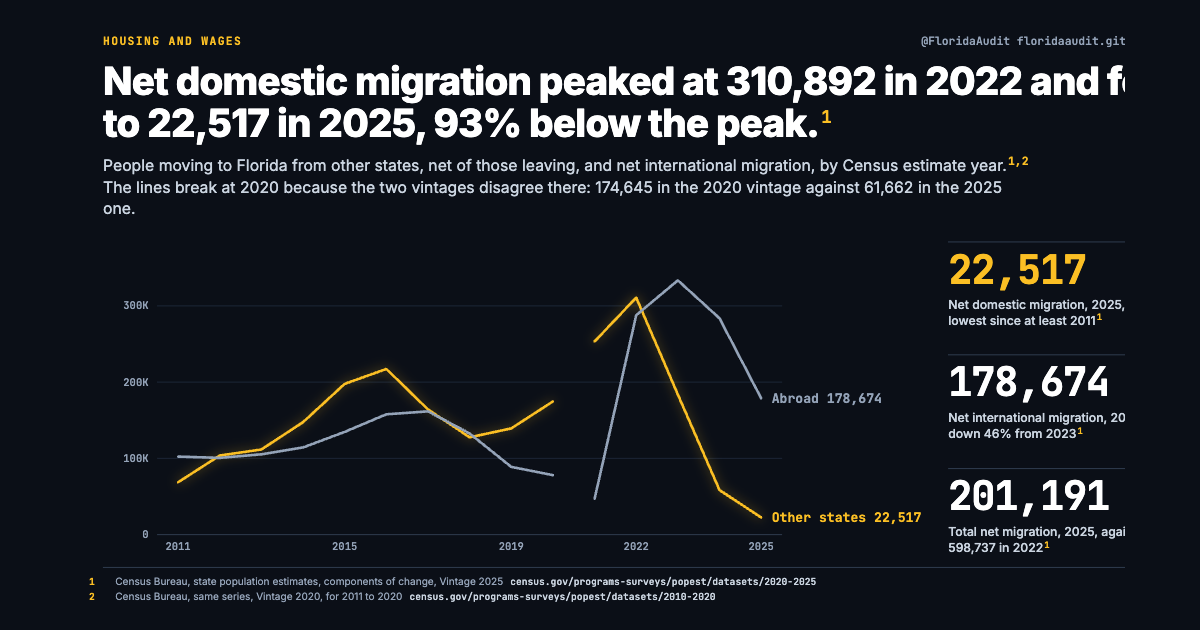
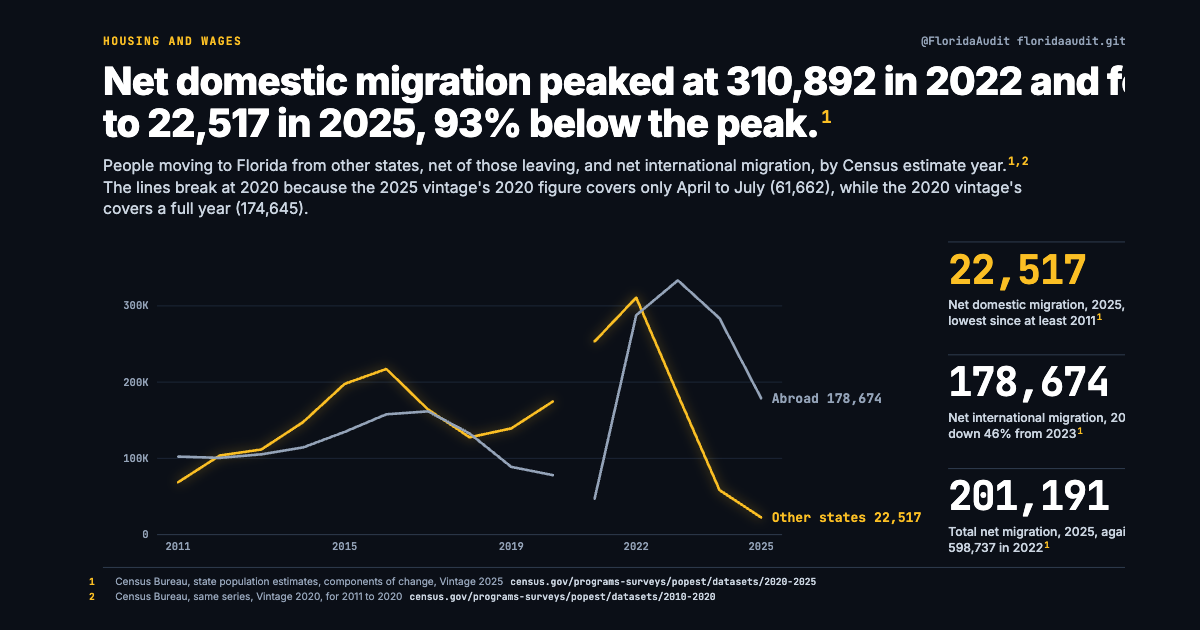
Release charts through 2026-10-01

Changed region(s): [[0.3083, 0.2714, 0.8633, 0.3317], [0.0925, 0.3016, 0.2467, 0.3619]]

diff --git a/c/housing-and-wages/index.html b/c/housing-and-wages/index.html
@@ -33,11 +33,11 @@
       <li><a href="/c/housing-and-wages/housing-costs-vs-income.html"><img src="/charts/housing-and-wages/housing-costs-vs-income.webp" width="1280" height="720" alt="Since 2010, Florida's median rent rose 33% and median home value 68% after inflation. Median household income rose 22%. Index, 2010 = 100, inflation-adjusted with CPI-U. Median gross rent, median value of owner-occupied homes and median household income, Florida. No 2020 estimate." loading="lazy"><span>Since 2010, Florida's median rent rose 33% and median home value 68% after inflation. Median household income rose 22%.</span></a></li>
       <li><a href="/c/housing-and-wages/rent-burden.html"><img src="/charts/housing-and-wages/rent-burden.webp" width="1280" height="720" alt="62.1% of Florida renters spent 30% or more of income on rent in 2024, the highest share since at least 2010. Renter households spending 30% or more of household income on gross rent, Florida and U.S., 2010 to 2024. Excludes households where the ratio is not computed." loading="lazy"><span>62.1% of Florida renters spent 30% or more of income on rent in 2024, the highest share since at least 2010.</span></a></li>
       <li><a href="/c/housing-and-wages/affordable-rental-shortage.html"><img src="/charts/housing-and-wages/affordable-rental-shortage.webp" width="1280" height="720" alt="Florida had 41 affordable and available rental units for every 100 renter households earning up to 60% of area median income in 2024. Surplus or shortage of rental units affordable and available to renter households, by household income as a share of area median income (AMI), Florida, 2024. Units per 100 households calculated from the same counts." loading="lazy"><span>Florida had 41 affordable and available rental units for every 100 renter households earning up to 60% of area median income in 2024.</span></a></li>
-      <li><a href="/c/housing-and-wages/hours-of-work-for-rent.html"><img src="/charts/housing-and-wages/hours-of-work-for-rent.webp" width="1280" height="720" alt="At Florida's median wage, a month of median rent took 80 hours of work in 2024. Nationally it took 63. Median monthly gross rent divided by the median hourly wage for all occupations. The wage survey changed methods in 2021, so earlier years are not directly comparable. No 2020 rent estimate." loading="lazy"><span>At Florida's median wage, a month of median rent took 80 hours of work in 2024. Nationally it took 63.</span></a></li>
+      <li><a href="/c/housing-and-wages/hours-of-work-for-rent.html"><img src="/charts/housing-and-wages/hours-of-work-for-rent.webp" width="1280" height="720" alt="At Florida's median wage, a month of median rent took 80 hours of work in 2024. Nationally it took 62. Median monthly gross rent divided by the median hourly wage for all occupations. The wage survey changed methods in 2021, so earlier years are not directly comparable. No 2020 rent estimate." loading="lazy"><span>At Florida's median wage, a month of median rent took 80 hours of work in 2024. Nationally it took 62.</span></a></li>
       <li><a href="/c/housing-and-wages/average-pay.html"><img src="/charts/housing-and-wages/average-pay.webp" width="1280" height="720" alt="Florida's average pay rose 18.5% after inflation from 2010 to 2025, faster than the U.S. (14.0%). It remains 7.6% below the U.S. average. Average annual pay, all jobs covered by unemployment insurance, Florida and U.S. Solid lines current dollars; dashed lines 2025 dollars." loading="lazy"><span>Florida's average pay rose 18.5% after inflation from 2010 to 2025, faster than the U.S. (14.0%). It remains 7.6% below the U.S. average.</span></a></li>
       <li><a href="/c/housing-and-wages/price-adjusted-wage-rank.html"><img src="/charts/housing-and-wages/price-adjusted-wage-rank.webp" width="1280" height="720" alt="Adjusted for Florida's price level, its median wage ranks 50th of 51 jurisdictions. Only Mississippi is lower. Florida's rank among the 50 states and D.C., 2024 (1 = highest), before and after dividing by each state's price level. Pre-tax: Florida has no state personal income tax. Ranks calculated from the published state data." loading="lazy"><span>Adjusted for Florida's price level, its median wage ranks 50th of 51 jurisdictions. Only Mississippi is lower.</span></a></li>
       <li><a href="/c/housing-and-wages/what-raised-the-cost-of-owning.html"><img src="/charts/housing-and-wages/what-raised-the-cost-of-owning.webp" width="1280" height="720" alt="The monthly cost of a Florida home with a mortgage rose $313 after inflation from 2019 to 2024. Insurance was $67 of it. Average monthly cost for owners with a mortgage, in 2024 dollars. Insurance is 10% of the bill and 22% of the rise. Census caps reported insurance at $10,000 a year and 2.9% of owners are at the cap, so that step is a floor." loading="lazy"><span>The monthly cost of a Florida home with a mortgage rose $313 after inflation from 2019 to 2024. Insurance was $67 of it.</span></a></li>
-      <li><a href="/c/housing-and-wages/net-migration.html"><img src="/charts/housing-and-wages/net-migration.webp" width="1280" height="720" alt="Net domestic migration peaked at 310,892 in 2022 and fell to 22,517 in 2025, 93% below the peak. People moving to Florida from other states, net of those leaving, and net international migration, by Census estimate year. The lines break at 2020 because the two vintages disagree there: 174,645 in the 2020 vintage against 61,662 in the 2025 one." loading="lazy"><span>Net domestic migration peaked at 310,892 in 2022 and fell to 22,517 in 2025, 93% below the peak.</span></a></li>
+      <li><a href="/c/housing-and-wages/net-migration.html"><img src="/charts/housing-and-wages/net-migration.webp" width="1280" height="720" alt="Net domestic migration peaked at 310,892 in 2022 and fell to 22,517 in 2025, 93% below the peak. People moving to Florida from other states, net of those leaving, and net international migration, by Census estimate year. The lines break at 2020 because the 2025 vintage's 2020 figure covers only April to July (61,662), while the 2020 vintage's covers a full year (174,645)." loading="lazy"><span>Net domestic migration peaked at 310,892 in 2022 and fell to 22,517 in 2025, 93% below the peak.</span></a></li>
     </ul>
     <p class="download"><a href="/data/housing-and-wages/housing-and-wages-data.zip">Download every CSV behind these charts (8 files)</a></p>
     <p class="related">Related: <a href="/c/property-taxes/">Property Taxes</a></p>

diff --git a/c/housing-and-wages/hours-of-work-for-rent.html b/c/housing-and-wages/hours-of-work-for-rent.html
@@ -3,32 +3,32 @@
 <head>
   <meta charset="utf-8">
   <meta name="viewport" content="width=device-width, initial-scale=1">
-  <title>At Florida's median wage, a month of median rent took 80 hours of work in 2024. Nationally it took 63. · Florida Audit Project</title>
+  <title>At Florida's median wage, a month of median rent took 80 hours of work in 2024. Nationally it took 62. · Florida Audit Project</title>
   <meta name="description" content="Housing and Wages: Median monthly gross rent divided by the median hourly wage for all occupations.">
   <link rel="canonical" href="https://floridaaudit.github.io/c/housing-and-wages/hours-of-work-for-rent.html">
   <meta name="robots" content="index, follow, max-image-preview:large">
   <meta property="og:type" content="article">
   <meta property="og:site_name" content="Florida Audit Project">
-  <meta property="og:title" content="At Florida's median wage, a month of median rent took 80 hours of work in 2024. Nationally it took 63.">
+  <meta property="og:title" content="At Florida's median wage, a month of median rent took 80 hours of work in 2024. Nationally it took 62.">
   <meta property="og:description" content="Housing and Wages: Median monthly gross rent divided by the median hourly wage for all occupations.">
   <meta property="og:url" content="https://floridaaudit.github.io/c/housing-and-wages/hours-of-work-for-rent.html">
   <meta property="og:image" content="https://floridaaudit.github.io/charts/housing-and-wages/hours-of-work-for-rent-card.png">
   <meta property="og:image:width" content="1200">
   <meta property="og:image:height" content="630">
-  <meta property="og:image:alt" content="At Florida's median wage, a month of median rent took 80 hours of work in 2024. Nationally it took 63. Median monthly gross rent divided by the median hourly wage for all occupations. The wage survey changed methods in 2021, so earlier years are not directly comparable. No 2020 rent estimate.">
+  <meta property="og:image:alt" content="At Florida's median wage, a month of median rent took 80 hours of work in 2024. Nationally it took 62. Median monthly gross rent divided by the median hourly wage for all occupations. The wage survey changed methods in 2021, so earlier years are not directly comparable. No 2020 rent estimate.">
   <meta name="twitter:card" content="summary_large_image">
   <meta name="twitter:site" content="@FloridaAudit">
-  <meta name="twitter:title" content="At Florida's median wage, a month of median rent took 80 hours of work in 2024. Nationally it took 63.">
+  <meta name="twitter:title" content="At Florida's median wage, a month of median rent took 80 hours of work in 2024. Nationally it took 62.">
   <meta name="twitter:description" content="Housing and Wages: Median monthly gross rent divided by the median hourly wage for all occupations.">
   <meta name="twitter:image" content="https://floridaaudit.github.io/charts/housing-and-wages/hours-of-work-for-rent-card.png">
-  <meta name="twitter:image:alt" content="At Florida's median wage, a month of median rent took 80 hours of work in 2024. Nationally it took 63. Median monthly gross rent divided by the median hourly wage for all occupations. The wage survey changed methods in 2021, so earlier years are not directly comparable. No 2020 rent estimate.">
+  <meta name="twitter:image:alt" content="At Florida's median wage, a month of median rent took 80 hours of work in 2024. Nationally it took 62. Median monthly gross rent divided by the median hourly wage for all occupations. The wage survey changed methods in 2021, so earlier years are not directly comparable. No 2020 rent estimate.">
   <link rel="icon" href="/assets/favicon.png" type="image/png">
   <link rel="stylesheet" href="/assets/site.css">
   <script type="application/ld+json">
 {
   "@context": "https://schema.org",
   "@type": "Dataset",
-  "name": "At Florida's median wage, a month of median rent took 80 hours of work in 2024. Nationally it took 63.",
+  "name": "At Florida's median wage, a month of median rent took 80 hours of work in 2024. Nationally it took 62.",
   "description": "Housing and Wages: Median monthly gross rent divided by the median hourly wage for all occupations.",
   "url": "https://floridaaudit.github.io/c/housing-and-wages/hours-of-work-for-rent.html",
   "license": "https://creativecommons.org/publicdomain/zero/1.0/",
@@ -68,10 +68,10 @@
 <main>
   <article>
     <p class="kicker">Housing and Wages</p>
-    <h1>At Florida's median wage, a month of median rent took 80 hours of work in 2024. Nationally it took 63.</h1>
+    <h1>At Florida's median wage, a month of median rent took 80 hours of work in 2024. Nationally it took 62.</h1>
     <p class="sub">Median monthly gross rent divided by the median hourly wage for all occupations. The wage survey changed methods in 2021, so earlier years are not directly comparable. No 2020 rent estimate.</p>
     <figure>
-      <img src="/charts/housing-and-wages/hours-of-work-for-rent.webp" width="1280" height="720" alt="At Florida's median wage, a month of median rent took 80 hours of work in 2024. Nationally it took 63. Median monthly gross rent divided by the median hourly wage for all occupations. The wage survey changed methods in 2021, so earlier years are not directly comparable. No 2020 rent estimate.">
+      <img src="/charts/housing-and-wages/hours-of-work-for-rent.webp" width="1280" height="720" alt="At Florida's median wage, a month of median rent took 80 hours of work in 2024. Nationally it took 62. Median monthly gross rent divided by the median hourly wage for all occupations. The wage survey changed methods in 2021, so earlier years are not directly comparable. No 2020 rent estimate.">
       <figcaption>Full size: <a href="/charts/housing-and-wages/hours-of-work-for-rent.png">PNG, 2560 by 1440</a></figcaption>
     </figure>
     <dl class="figures">

diff --git a/data/housing-and-wages/hours-to-pay-median-rent.html b/data/housing-and-wages/hours-to-pay-median-rent.html
@@ -4,13 +4,13 @@
   <meta charset="utf-8">
   <meta name="viewport" content="width=device-width, initial-scale=1">
   <title>hours-to-pay-median-rent.csv · Florida Audit Project</title>
-  <meta name="description" content="Housing and Wages: the data behind At Florida's median wage, a month of median rent took 80 hours of work in 2024. Nationally it took 63.">
+  <meta name="description" content="Housing and Wages: the data behind At Florida's median wage, a month of median rent took 80 hours of work in 2024. Nationally it took 62.">
   <link rel="canonical" href="https://floridaaudit.github.io/data/housing-and-wages/hours-to-pay-median-rent.html">
   <meta name="robots" content="index, follow, max-image-preview:large">
   <meta property="og:type" content="website">
   <meta property="og:site_name" content="Florida Audit Project">
   <meta property="og:title" content="hours-to-pay-median-rent.csv · Florida Audit Project">
-  <meta property="og:description" content="Housing and Wages: the data behind At Florida's median wage, a month of median rent took 80 hours of work in 2024. Nationally it took 63.">
+  <meta property="og:description" content="Housing and Wages: the data behind At Florida's median wage, a month of median rent took 80 hours of work in 2024. Nationally it took 62.">
   <meta property="og:url" content="https://floridaaudit.github.io/data/housing-and-wages/hours-to-pay-median-rent.html">
   <link rel="icon" href="/assets/favicon.png" type="image/png">
   <link rel="stylesheet" href="/assets/site.css">
@@ -19,11 +19,11 @@
 <header class="bar"><a href="/">Florida Audit Project</a><nav><a href="/data/">Data</a> <a href="/methods.html">Methods</a> <a href="/corrections.html">Corrections</a></nav></header>
 <main>  <p class="kicker"><a href="/c/housing-and-wages/">Housing and Wages</a></p>
   <h1>hours-to-pay-median-rent.csv</h1>
-  <p class="sub">The data behind <a href="/c/housing-and-wages/hours-of-work-for-rent.html">At Florida's median wage, a month of median rent took 80 hours of work in 2024. Nationally it took 63.</a>. 14 rows, 6 columns.</p>
+  <p class="sub">The data behind <a href="/c/housing-and-wages/hours-of-work-for-rent.html">At Florida's median wage, a month of median rent took 80 hours of work in 2024. Nationally it took 62.</a>. 14 rows, 6 columns.</p>
   <p class="download"><a href="/data/housing-and-wages/hours-to-pay-median-rent.csv">Download this CSV</a> &middot; <a href="/data/">All datasets</a></p>
   <div class="scroll"><table class="data">
     <thead><tr><th>year</th><th>florida_hours</th><th>us_hours</th><th>florida_median_hourly_wage</th><th>us_median_hourly_wage</th><th>wage_method</th></tr></thead>
-    <tbody><tr><td>2010</td><td>64.4</td><td>52.6</td><td>14.71</td><td>16.27</td><td>pre-2021</td></tr><tr><td>2011</td><td>64.2</td><td>52.6</td><td>14.79</td><td>16.57</td><td>pre-2021</td></tr><tr><td>2012</td><td>64.8</td><td>52.9</td><td>14.72</td><td>16.71</td><td>pre-2021</td></tr><tr><td>2013</td><td>65.9</td><td>53.6</td><td>14.74</td><td>16.87</td><td>pre-2021</td></tr><tr><td>2014</td><td>67.2</td><td>54.7</td><td>14.93</td><td>17.09</td><td>pre-2021</td></tr><tr><td>2015</td><td>68.4</td><td>55.1</td><td>15.29</td><td>17.4</td><td>pre-2021</td></tr><tr><td>2016</td><td>68.9</td><td>55.1</td><td>15.77</td><td>17.81</td><td>pre-2021</td></tr><tr><td>2017</td><td>70.2</td><td>55.8</td><td>16.07</td><td>18.12</td><td>pre-2021</td></tr><tr><td>2018</td><td>71.1</td><td>56.9</td><td>16.62</td><td>18.58</td><td>pre-2021</td></tr><tr><td>2019</td><td>71.9</td><td>57.3</td><td>17.23</td><td>19.14</td><td>pre-2021</td></tr><tr><td>2021</td><td>73.9</td><td>54.1</td><td>18.23</td><td>22.0</td><td>MB3</td></tr><tr><td>2022</td><td>77.7</td><td>58.4</td><td>19.62</td><td>22.26</td><td>MB3</td></tr><tr><td>2023</td><td>79.3</td><td>60.8</td><td>21.67</td><td>23.11</td><td>MB3</td></tr><tr><td>2024</td><td>80.4</td><td>62.5</td><td>22.53</td><td>23.8</td><td>MB3</td></tr></tbody>
+    <tbody><tr><td>2010</td><td>64.38</td><td>52.55</td><td>14.71</td><td>16.27</td><td>pre-2021</td></tr><tr><td>2011</td><td>64.16</td><td>52.56</td><td>14.79</td><td>16.57</td><td>pre-2021</td></tr><tr><td>2012</td><td>64.81</td><td>52.90</td><td>14.72</td><td>16.71</td><td>pre-2021</td></tr><tr><td>2013</td><td>65.94</td><td>53.65</td><td>14.74</td><td>16.87</td><td>pre-2021</td></tr><tr><td>2014</td><td>67.18</td><td>54.65</td><td>14.93</td><td>17.09</td><td>pre-2021</td></tr><tr><td>2015</td><td>68.41</td><td>55.11</td><td>15.29</td><td>17.4</td><td>pre-2021</td></tr><tr><td>2016</td><td>68.86</td><td>55.08</td><td>15.77</td><td>17.81</td><td>pre-2021</td></tr><tr><td>2017</td><td>70.19</td><td>55.85</td><td>16.07</td><td>18.12</td><td>pre-2021</td></tr><tr><td>2018</td><td>71.12</td><td>56.94</td><td>16.62</td><td>18.58</td><td>pre-2021</td></tr><tr><td>2019</td><td>71.85</td><td>57.31</td><td>17.23</td><td>19.14</td><td>pre-2021</td></tr><tr><td>2021</td><td>73.94</td><td>54.14</td><td>18.23</td><td>22.0</td><td>MB3</td></tr><tr><td>2022</td><td>77.73</td><td>58.40</td><td>19.62</td><td>22.26</td><td>MB3</td></tr><tr><td>2023</td><td>79.33</td><td>60.84</td><td>21.67</td><td>23.11</td><td>MB3</td></tr><tr><td>2024</td><td>80.43</td><td>62.48</td><td>22.53</td><td>23.8</td><td>MB3</td></tr></tbody>
   </table></div>
   <p class="meta">Released into the public domain under <a href="https://creativecommons.org/publicdomain/zero/1.0/">CC0</a>. No attribution required.</p></main>
 <footer><a href="/">All charts</a> · <a href="/data/">Data</a> · <a href="/methods.html">Methods</a> · <a href="/corrections.html">Corrections</a></footer>

diff --git a/c/housing-and-wages/net-migration.html b/c/housing-and-wages/net-migration.html
@@ -15,13 +15,13 @@
   <meta property="og:image" content="https://floridaaudit.github.io/charts/housing-and-wages/net-migration-card.png">
   <meta property="og:image:width" content="1200">
   <meta property="og:image:height" content="630">
-  <meta property="og:image:alt" content="Net domestic migration peaked at 310,892 in 2022 and fell to 22,517 in 2025, 93% below the peak. People moving to Florida from other states, net of those leaving, and net international migration, by Census estimate year. The lines break at 2020 because the two vintages disagree there: 174,645 in the 2020 vintage against 61,662 in the 2025 one.">
+  <meta property="og:image:alt" content="Net domestic migration peaked at 310,892 in 2022 and fell to 22,517 in 2025, 93% below the peak. People moving to Florida from other states, net of those leaving, and net international migration, by Census estimate year. The lines break at 2020 because the 2025 vintage's 2020 figure covers only April to July (61,662), while the 2020 vintage's covers a full year (174,645).">
   <meta name="twitter:card" content="summary_large_image">
   <meta name="twitter:site" content="@FloridaAudit">
   <meta name="twitter:title" content="Net domestic migration peaked at 310,892 in 2022 and fell to 22,517 in 2025, 93% below the peak.">
   <meta name="twitter:description" content="Housing and Wages: People moving to Florida from other states, net of those leaving, and net international migration, by Census estimate year.">
   <meta name="twitter:image" content="https://floridaaudit.github.io/charts/housing-and-wages/net-migration-card.png">
-  <meta name="twitter:image:alt" content="Net domestic migration peaked at 310,892 in 2022 and fell to 22,517 in 2025, 93% below the peak. People moving to Florida from other states, net of those leaving, and net international migration, by Census estimate year. The lines break at 2020 because the two vintages disagree there: 174,645 in the 2020 vintage against 61,662 in the 2025 one.">
+  <meta name="twitter:image:alt" content="Net domestic migration peaked at 310,892 in 2022 and fell to 22,517 in 2025, 93% below the peak. People moving to Florida from other states, net of those leaving, and net international migration, by Census estimate year. The lines break at 2020 because the 2025 vintage's 2020 figure covers only April to July (61,662), while the 2020 vintage's covers a full year (174,645).">
   <link rel="icon" href="/assets/favicon.png" type="image/png">
   <link rel="stylesheet" href="/assets/site.css">
   <script type="application/ld+json">
@@ -69,9 +69,9 @@
   <article>
     <p class="kicker">Housing and Wages</p>
     <h1>Net domestic migration peaked at 310,892 in 2022 and fell to 22,517 in 2025, 93% below the peak.</h1>
-    <p class="sub">People moving to Florida from other states, net of those leaving, and net international migration, by Census estimate year. The lines break at 2020 because the two vintages disagree there: 174,645 in the 2020 vintage against 61,662 in the 2025 one.</p>
+    <p class="sub">People moving to Florida from other states, net of those leaving, and net international migration, by Census estimate year. The lines break at 2020 because the 2025 vintage's 2020 figure covers only April to July (61,662), while the 2020 vintage's covers a full year (174,645).</p>
     <figure>
-      <img src="/charts/housing-and-wages/net-migration.webp" width="1280" height="720" alt="Net domestic migration peaked at 310,892 in 2022 and fell to 22,517 in 2025, 93% below the peak. People moving to Florida from other states, net of those leaving, and net international migration, by Census estimate year. The lines break at 2020 because the two vintages disagree there: 174,645 in the 2020 vintage against 61,662 in the 2025 one.">
+      <img src="/charts/housing-and-wages/net-migration.webp" width="1280" height="720" alt="Net domestic migration peaked at 310,892 in 2022 and fell to 22,517 in 2025, 93% below the peak. People moving to Florida from other states, net of those leaving, and net international migration, by Census estimate year. The lines break at 2020 because the 2025 vintage's 2020 figure covers only April to July (61,662), while the 2020 vintage's covers a full year (174,645).">
       <figcaption>Full size: <a href="/charts/housing-and-wages/net-migration.png">PNG, 2560 by 1440</a></figcaption>
     </figure>
     <dl class="figures">

diff --git a/data/index.html b/data/index.html
@@ -26,7 +26,7 @@
       <tr><td><a href="/c/housing-and-wages/median-rent.html">Florida's median rent rose 91% from 2010 to 2024, to $1,812 a month.</a><span class="in">Housing and Wages</span></td><td class="file">acs-housing-2010-2024.csv</td><td class="num">14</td><td><a href="/data/housing-and-wages/acs-housing-2010-2024.html">View</a></td><td><a href="/data/housing-and-wages/acs-housing-2010-2024.csv">CSV</a></td></tr>
       <tr><td><a href="/c/housing-and-wages/housing-costs-vs-income.html">Since 2010, Florida's median rent rose 33% and median home value 68% after inflation. Median household income rose 22%.</a><span class="in">Housing and Wages</span></td><td class="file">real-rent-value-income-index.csv</td><td class="num">14</td><td><a href="/data/housing-and-wages/real-rent-value-income-index.html">View</a></td><td><a href="/data/housing-and-wages/real-rent-value-income-index.csv">CSV</a></td></tr>
       <tr><td><a href="/c/housing-and-wages/affordable-rental-shortage.html">Florida had 41 affordable and available rental units for every 100 renter households earning up to 60% of area median income in 2024.</a><span class="in">Housing and Wages</span></td><td class="file">rental-shortage-by-income-2024.csv</td><td class="num">8</td><td><a href="/data/housing-and-wages/rental-shortage-by-income-2024.html">View</a></td><td><a href="/data/housing-and-wages/rental-shortage-by-income-2024.csv">CSV</a></td></tr>
-      <tr><td><a href="/c/housing-and-wages/hours-of-work-for-rent.html">At Florida's median wage, a month of median rent took 80 hours of work in 2024. Nationally it took 63.</a><span class="in">Housing and Wages</span></td><td class="file">hours-to-pay-median-rent.csv</td><td class="num">14</td><td><a href="/data/housing-and-wages/hours-to-pay-median-rent.html">View</a></td><td><a href="/data/housing-and-wages/hours-to-pay-median-rent.csv">CSV</a></td></tr>
+      <tr><td><a href="/c/housing-and-wages/hours-of-work-for-rent.html">At Florida's median wage, a month of median rent took 80 hours of work in 2024. Nationally it took 62.</a><span class="in">Housing and Wages</span></td><td class="file">hours-to-pay-median-rent.csv</td><td class="num">14</td><td><a href="/data/housing-and-wages/hours-to-pay-median-rent.html">View</a></td><td><a href="/data/housing-and-wages/hours-to-pay-median-rent.csv">CSV</a></td></tr>
       <tr><td><a href="/c/housing-and-wages/average-pay.html">Florida's average pay rose 18.5% after inflation from 2010 to 2025, faster than the U.S. (14.0%). It remains 7.6% below the U.S. average.</a><span class="in">Housing and Wages</span></td><td class="file">average-annual-pay-qcew.csv</td><td class="num">16</td><td><a href="/data/housing-and-wages/average-annual-pay-qcew.html">View</a></td><td><a href="/data/housing-and-wages/average-annual-pay-qcew.csv">CSV</a></td></tr>
       <tr><td><a href="/c/housing-and-wages/price-adjusted-wage-rank.html">Adjusted for Florida's price level, its median wage ranks 50th of 51 jurisdictions. Only Mississippi is lower.</a><span class="in">Housing and Wages</span></td><td class="file">price-adjusted-ranks-2024.csv</td><td class="num">3</td><td><a href="/data/housing-and-wages/price-adjusted-ranks-2024.html">View</a></td><td><a href="/data/housing-and-wages/price-adjusted-ranks-2024.csv">CSV</a></td></tr>
       <tr><td><a href="/c/housing-and-wages/what-raised-the-cost-of-owning.html">The monthly cost of a Florida home with a mortgage rose $313 after inflation from 2019 to 2024. Insurance was $67 of it.</a><span class="in">Housing and Wages</span></td><td class="file">housing-cost-components-2019-2024.csv</td><td class="num">13</td><td><a href="/data/housing-and-wages/housing-cost-components-2019-2024.html">View</a></td><td><a href="/data/housing-and-wages/housing-cost-components-2019-2024.csv">CSV</a></td></tr>

diff --git a/index.html b/index.html
@@ -36,7 +36,7 @@
       <li><a href="/c/housing-and-wages/housing-costs-vs-income.html">Since 2010, Florida's median rent rose 33% and median home value 68% after inflation. Median household income rose 22%.</a></li>
       <li><a href="/c/housing-and-wages/rent-burden.html">62.1% of Florida renters spent 30% or more of income on rent in 2024, the highest share since at least 2010.</a></li>
       <li><a href="/c/housing-and-wages/affordable-rental-shortage.html">Florida had 41 affordable and available rental units for every 100 renter households earning up to 60% of area median income in 2024.</a></li>
-      <li><a href="/c/housing-and-wages/hours-of-work-for-rent.html">At Florida's median wage, a month of median rent took 80 hours of work in 2024. Nationally it took 63.</a></li>
+      <li><a href="/c/housing-and-wages/hours-of-work-for-rent.html">At Florida's median wage, a month of median rent took 80 hours of work in 2024. Nationally it took 62.</a></li>
       <li><a href="/c/housing-and-wages/average-pay.html">Florida's average pay rose 18.5% after inflation from 2010 to 2025, faster than the U.S. (14.0%). It remains 7.6% below the U.S. average.</a></li>
       <li><a href="/c/housing-and-wages/price-adjusted-wage-rank.html">Adjusted for Florida's price level, its median wage ranks 50th of 51 jurisdictions. Only Mississippi is lower.</a></li>
       <li><a href="/c/housing-and-wages/what-raised-the-cost-of-owning.html">The monthly cost of a Florida home with a mortgage rose $313 after inflation from 2019 to 2024. Insurance was $67 of it.</a></li>
